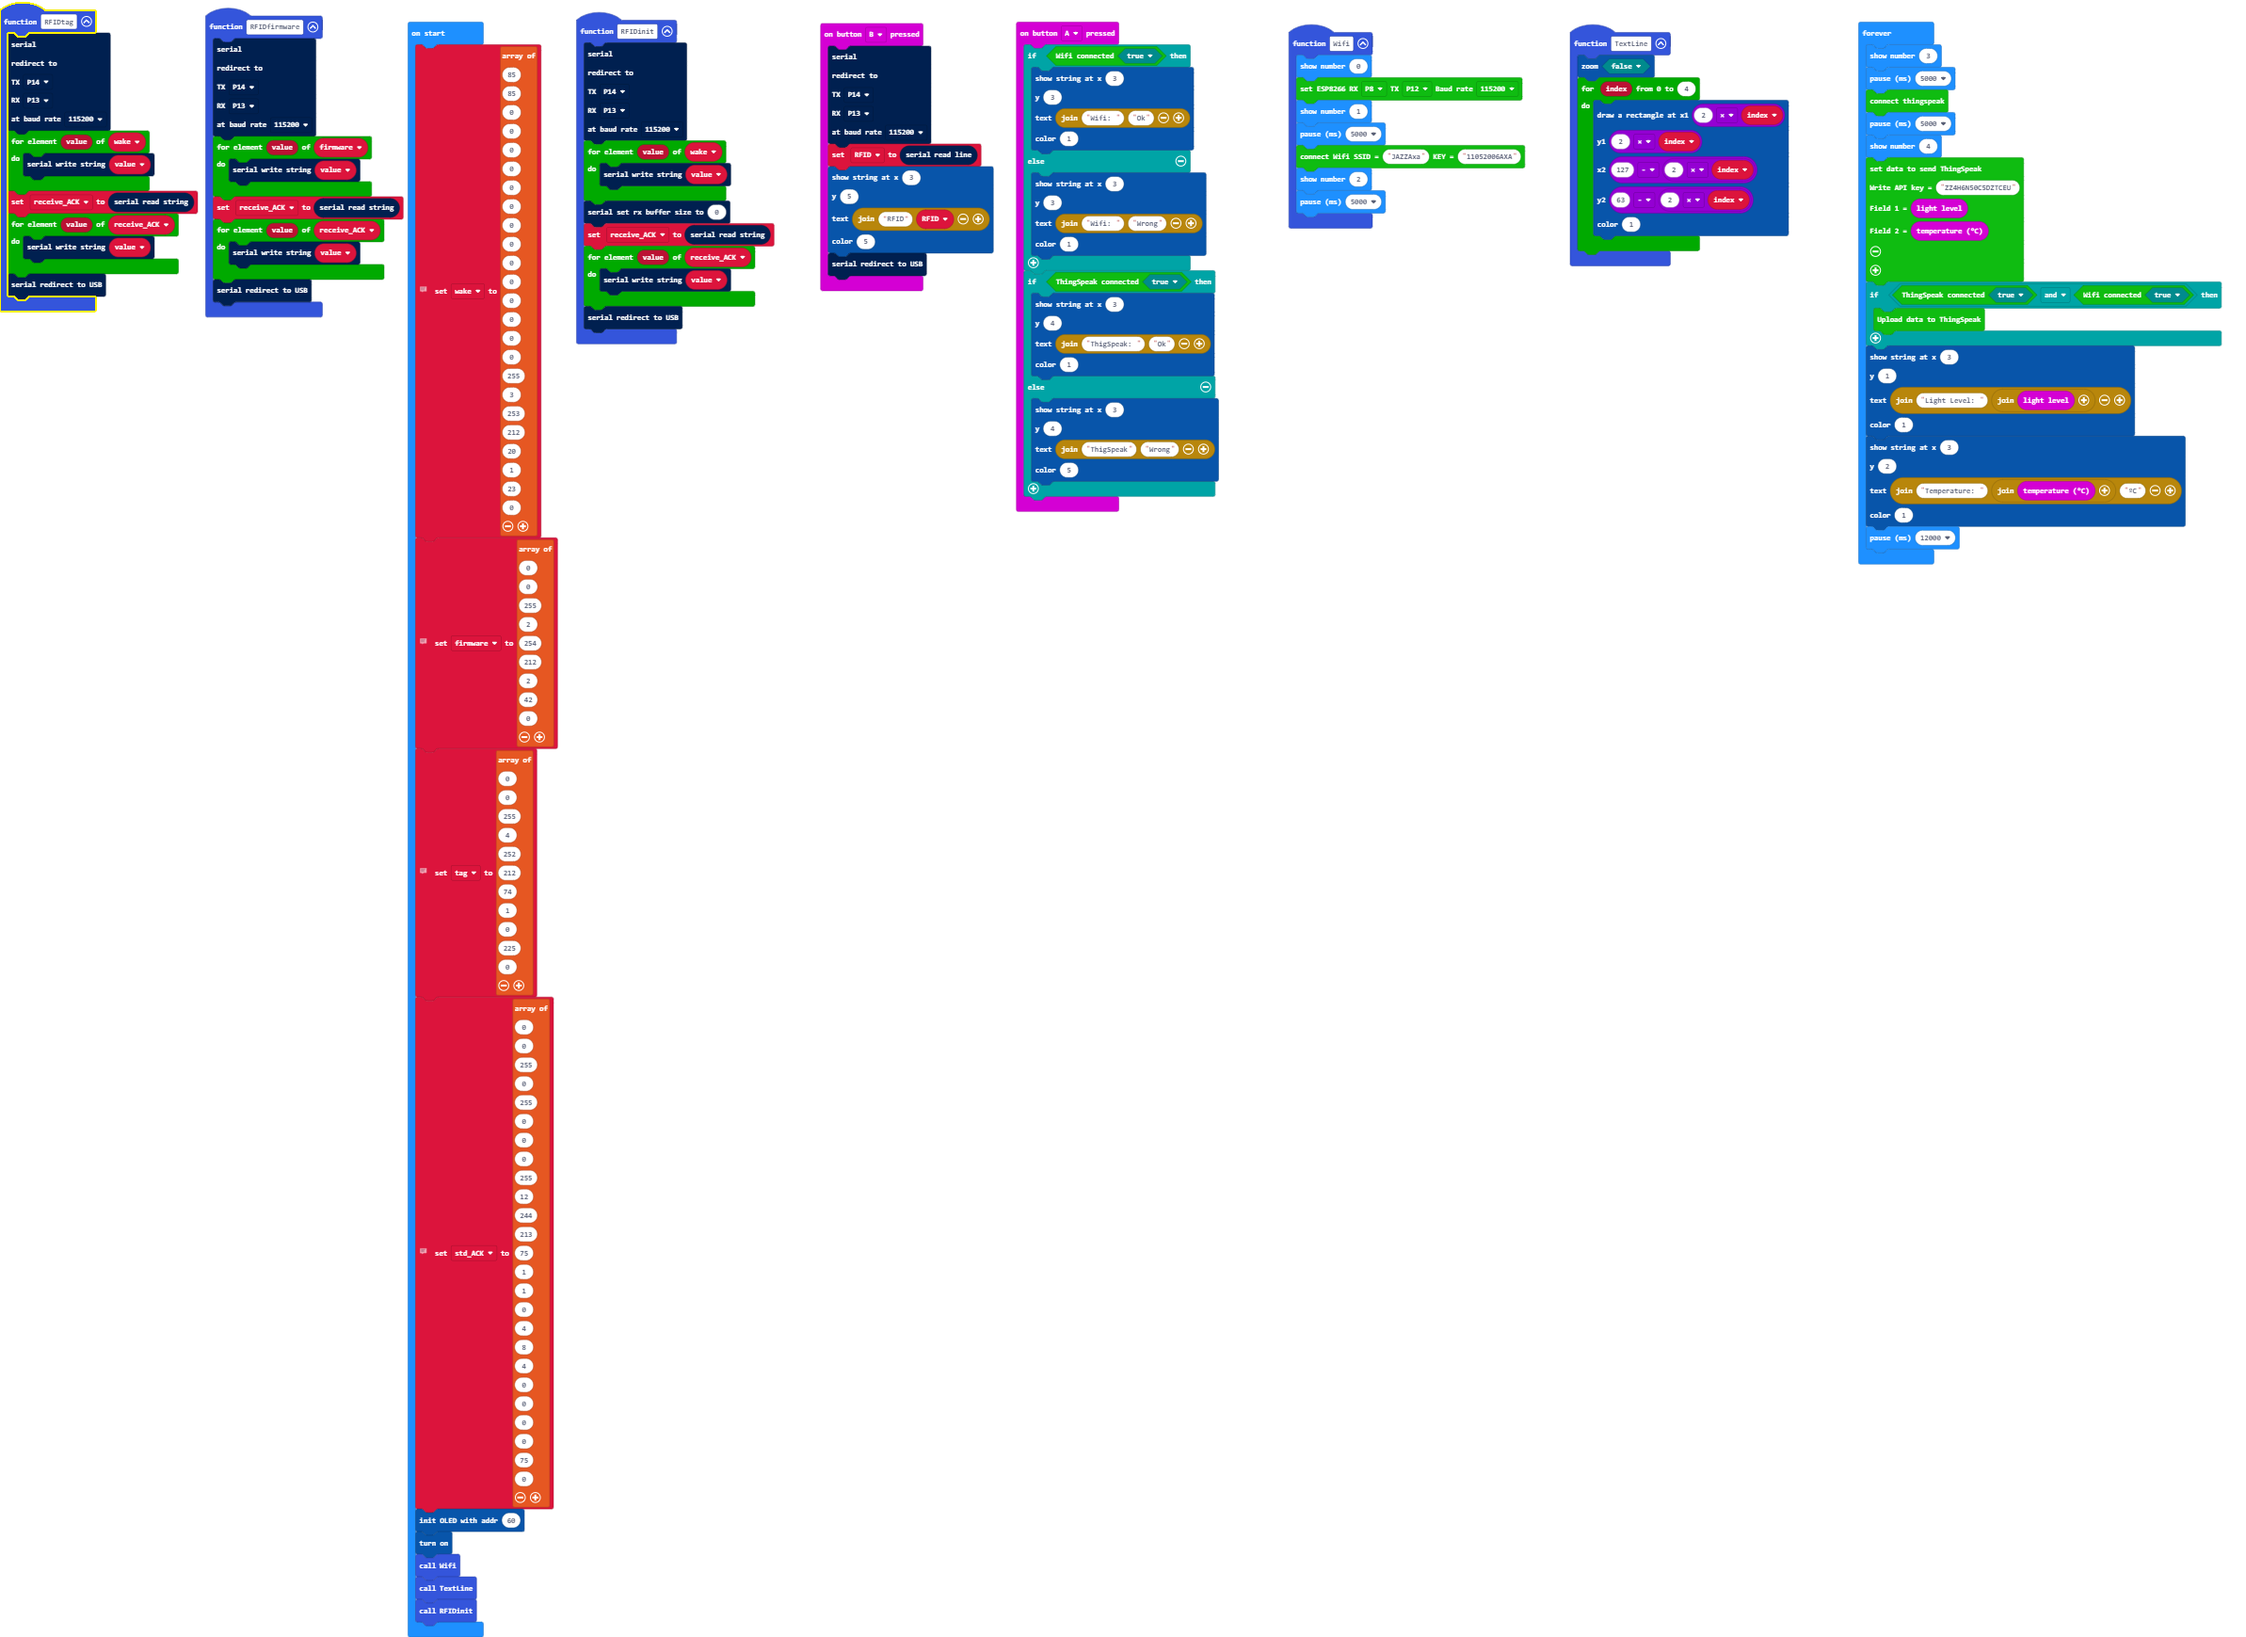
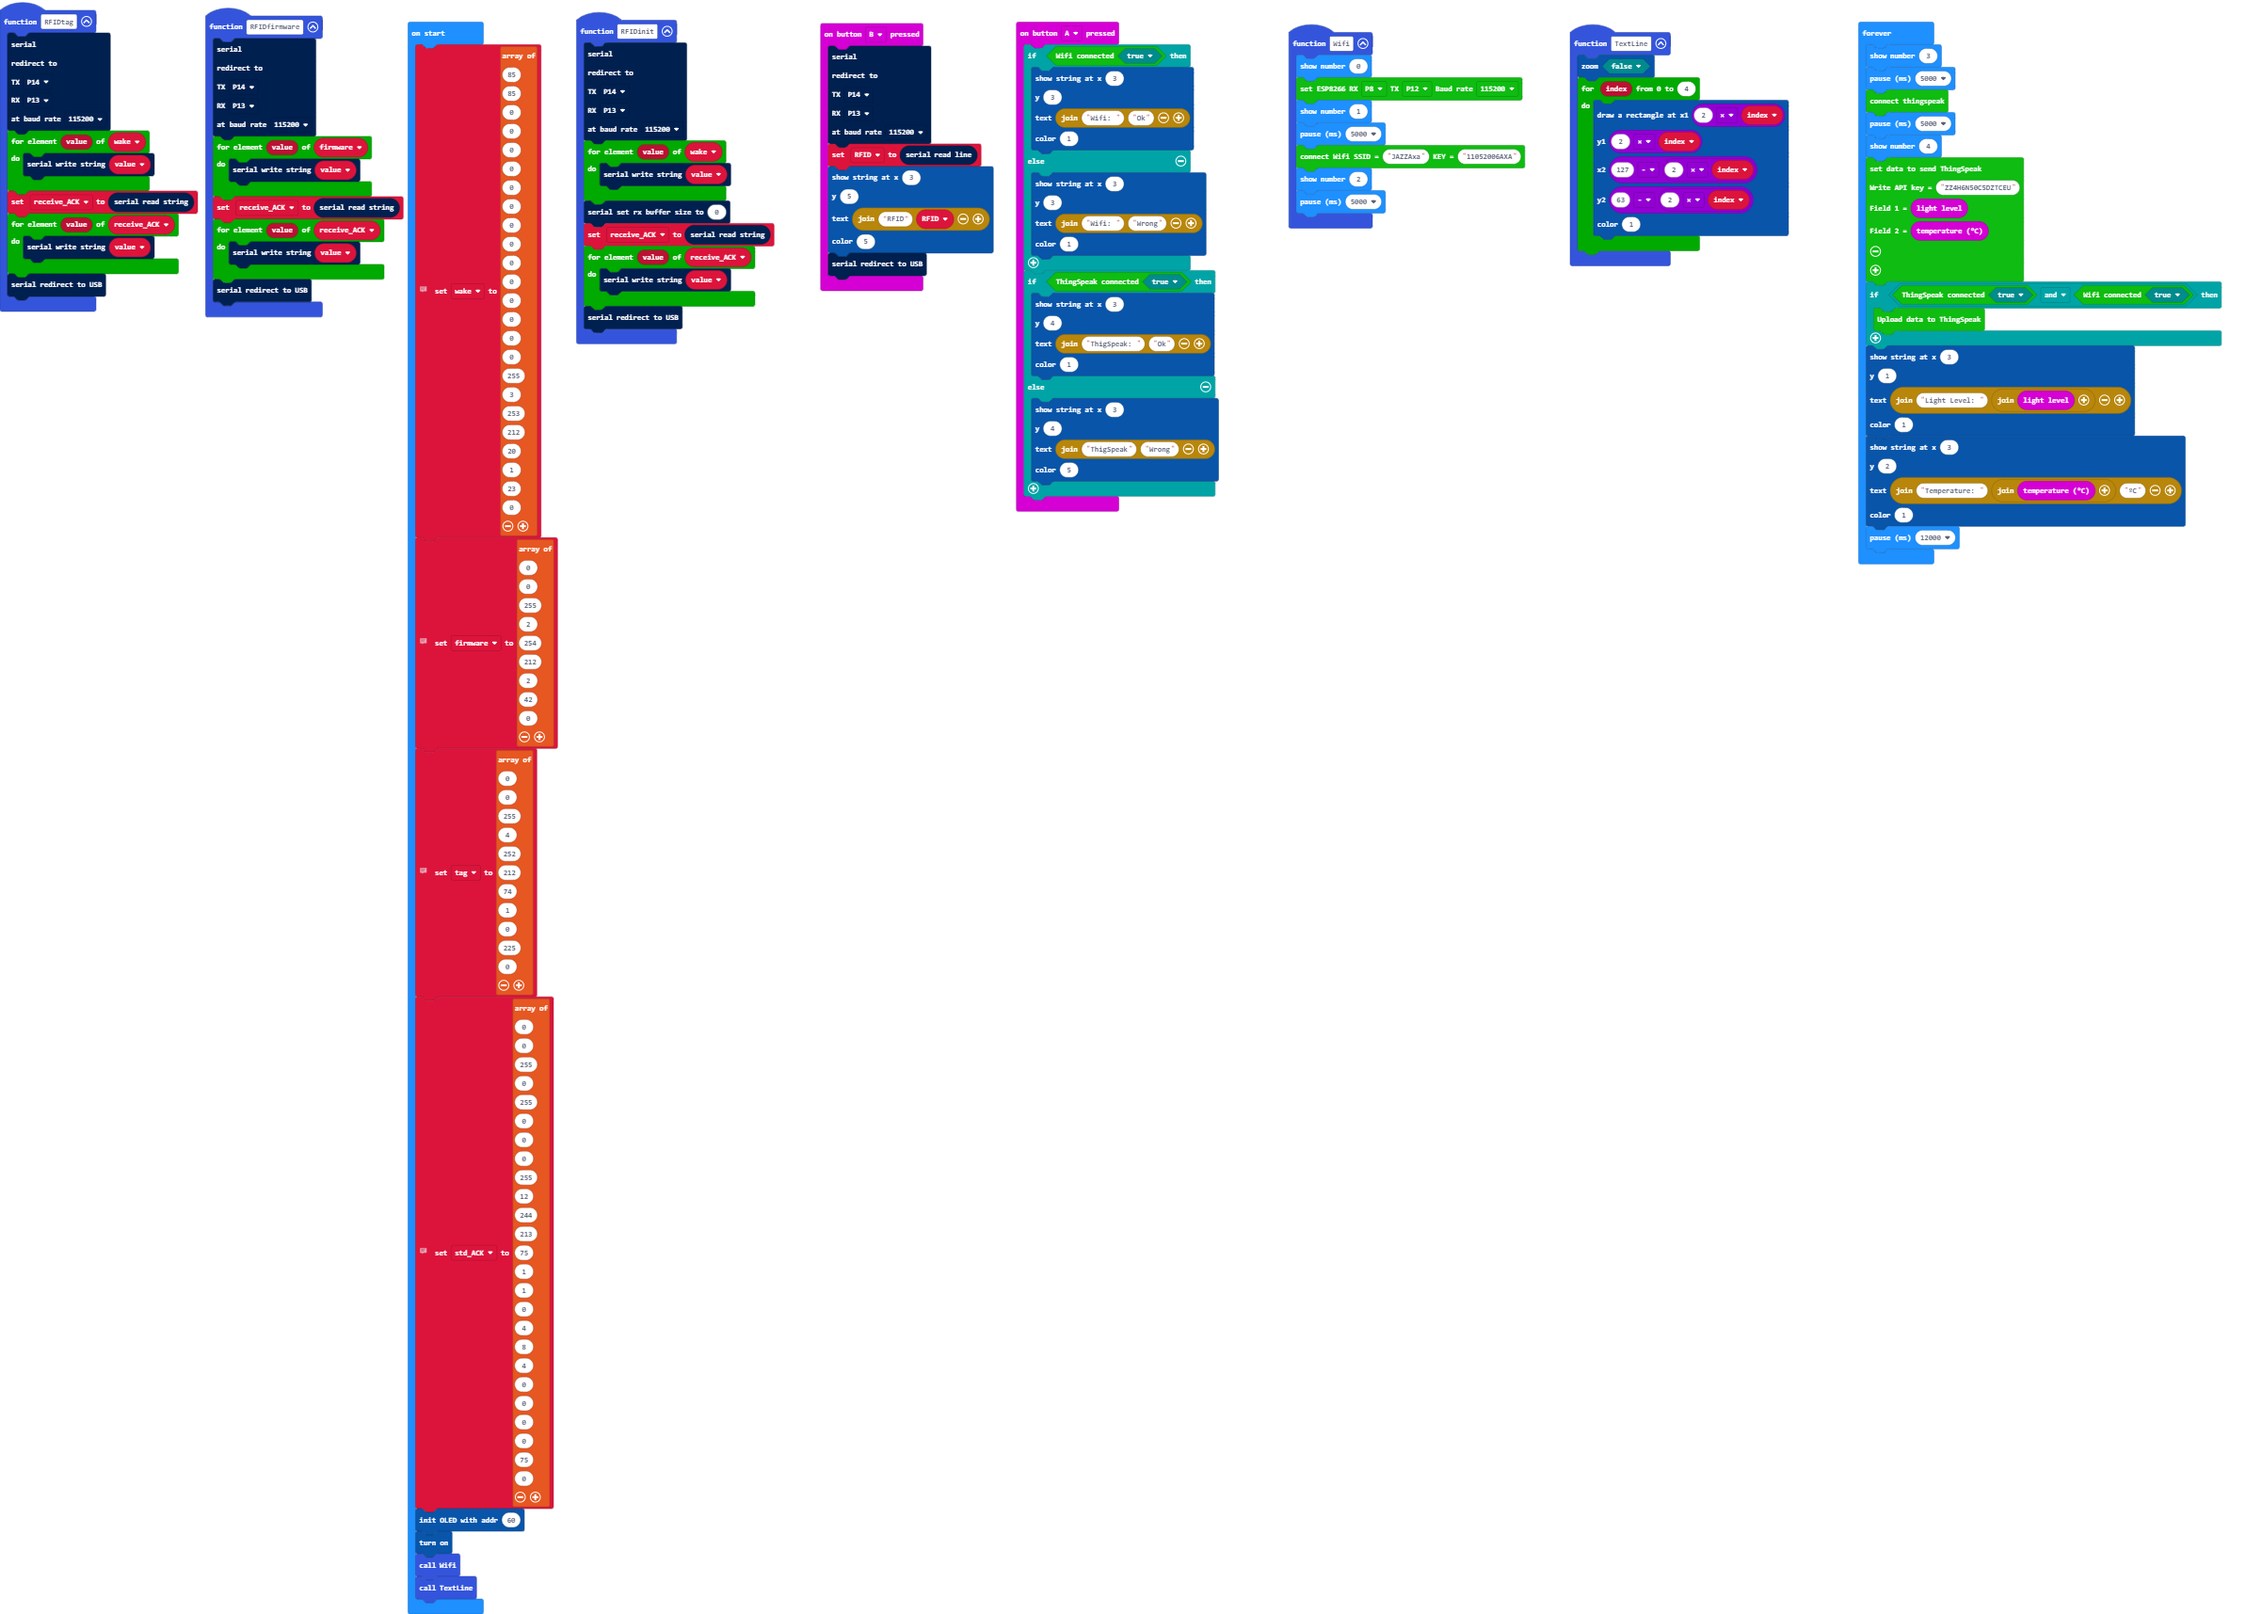
https://wiki.dfrobot.com/NFC_Module_for_Arduino__SKU_DFR0231_

diff --git a/main.ts b/main.ts
@@ -128,7 +128,6 @@ OLED12864_I2C.init(60)
 OLED12864_I2C.on()
 Wifi()
 TextLine()
-RFIDinit()
 basic.forever(function () {
     basic.showNumber(3)
     basic.pause(5000)
